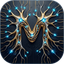
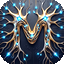
Ícone novo sem quadro (M de neurônios sobre placa de circuito até a borda)
Usa o pacote enviado pelo Mauricio: iPhone e Android direto do pacote;
192/512 com cantos arredondados; aba do navegador com o centro da arte
para o M ficar maior; logo da tela de entrada e original atualizados.

Claude-Session: https://claude.ai/code/session_01Tkx9jXUnBCx1CmQm6UbKhQ

diff --git a/CLAUDE.md b/CLAUDE.md
@@ -103,7 +103,7 @@ Tema escuro "vidro sobre luzes neon", inspirado no ícone (neurônio de vidro em
 - Degradê da marca só no destaque (cartão "Revisão de hoje", tela de entrada). Ciano `#4FDDFF` = toque e ação (botão principal ciano com texto escuro). Verde-menta `#34D399` = certo; coral `#FF6B5E` = errado (nunca rosa); âmbar = atenção; magenta `#FF4FD8` só na bolinha de novidade.
 - Fundo `#0A0D1C` com 2 luzes suaves, sem quadriculado. Engrenagem em vidro discreto.
 - Matérias em tons de pedra preciosa (texto branco legível): nefro `#2563EB`/`#1E3A8A`, pneumo `#0E7490`/`#155E75`, gastro `#047857`/`#065F46`, orto `#B45309`/`#7C2D12`, uro `#6D28D9`/`#4C1D95`, pass `#BE185D`/`#831843`. A cor clara de cada matéria (agenda, brilho do bloco) fica em `COR_MATERIA` (`lib/agenda.ts`).
-Tokens e regras no fim de `app/globals.css` (bloco "Tema Med Genius"). Ícones do app em `public/icons`, `app/icon.png`, `app/apple-icon.png`; logo em `public/brand/med-genius.webp` (ícone de 20/10/2026: neurônios dourados formando um "M" num quadro de borda cinza fina, sobre placa de circuito escura com mais neurônios e pontos azuis até a borda; o original de 1024 px está em `public/brand/med-genius-original.jpg`). Tamanhos: iPhone (`apple-icon`), Android (`maskable-512`) e logo da tela de entrada usam a arte inteira (o sistema arredonda os cantos; na entrada, a moldura de ouro do CSS); `icon-192`/`icon-512` são a arte inteira com cantos arredondados (22,5%); a aba do navegador (`app/icon.png`) usa só o quadro do meio (123 a 901 px, cantos de raio ~172) para o M ficar maior.
+Tokens e regras no fim de `app/globals.css` (bloco "Tema Med Genius"). Ícones do app em `public/icons`, `app/icon.png`, `app/apple-icon.png`; logo em `public/brand/med-genius.webp` (ícone de 20/10/2026, versão sem quadro: neurônios dourados e prateados formando um "M" com pontos azuis, sobre placa de circuito escura que vai até a borda; o original de 1024 px está em `public/brand/med-genius-original.jpg`). Tamanhos: iPhone (`apple-icon`) e Android (`maskable-512`) vêm prontos do pacote do Mauricio; logo da tela de entrada usa a arte inteira (na entrada, a moldura de ouro do CSS); `icon-192`/`icon-512` são a arte inteira com cantos arredondados (22,5%); a aba do navegador (`app/icon.png`, 64 px) usa só o centro (172 a 852 px, um pouco clareado, cantos de raio 14) para o M ficar maior.
 Tela de entrada: a da v4 (bloco próprio no fim de `app/globals.css`, com as cores da v4 só nela): logo numa moldura de ouro, "MED GENIUS" prateado com "Medicina · FAG" embaixo e, num cartão de vidro com moldura de cromo, os rótulos CPF e SENHA sobre os campos (ícone à esquerda, texto centralizado, olho para mostrar a senha) e o botão ENTRAR de ouro largo. Sem rodapé e sem aviso de senha esquecida.
 
 Versões do visual salvas no GitHub (ramos fixos, não publicados; não apague):
